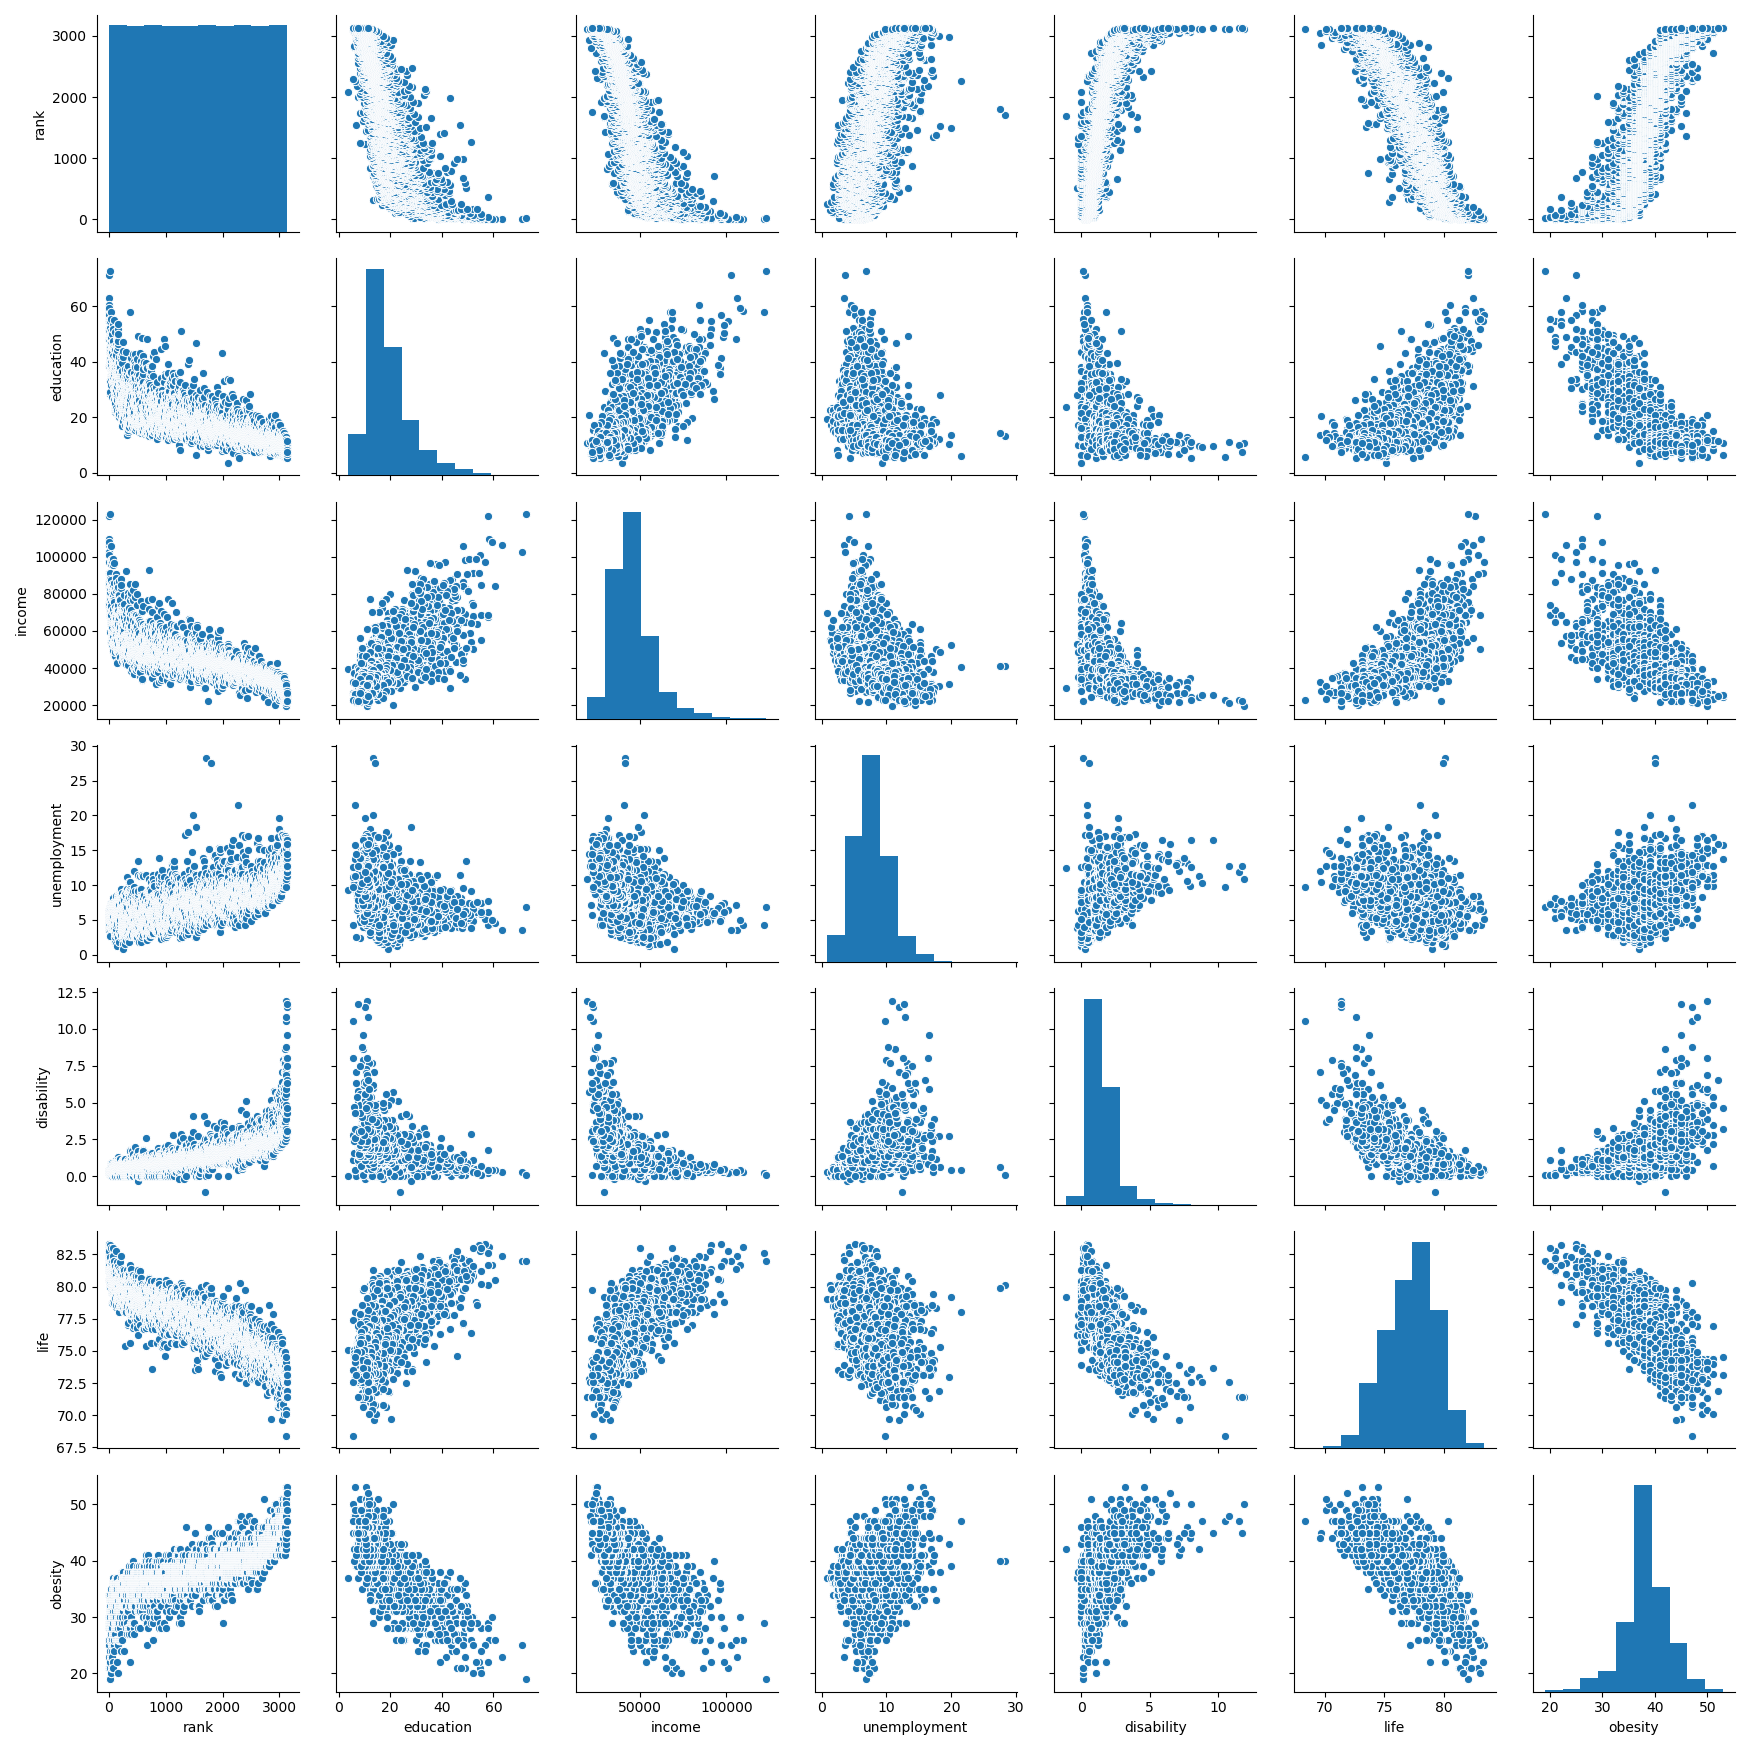
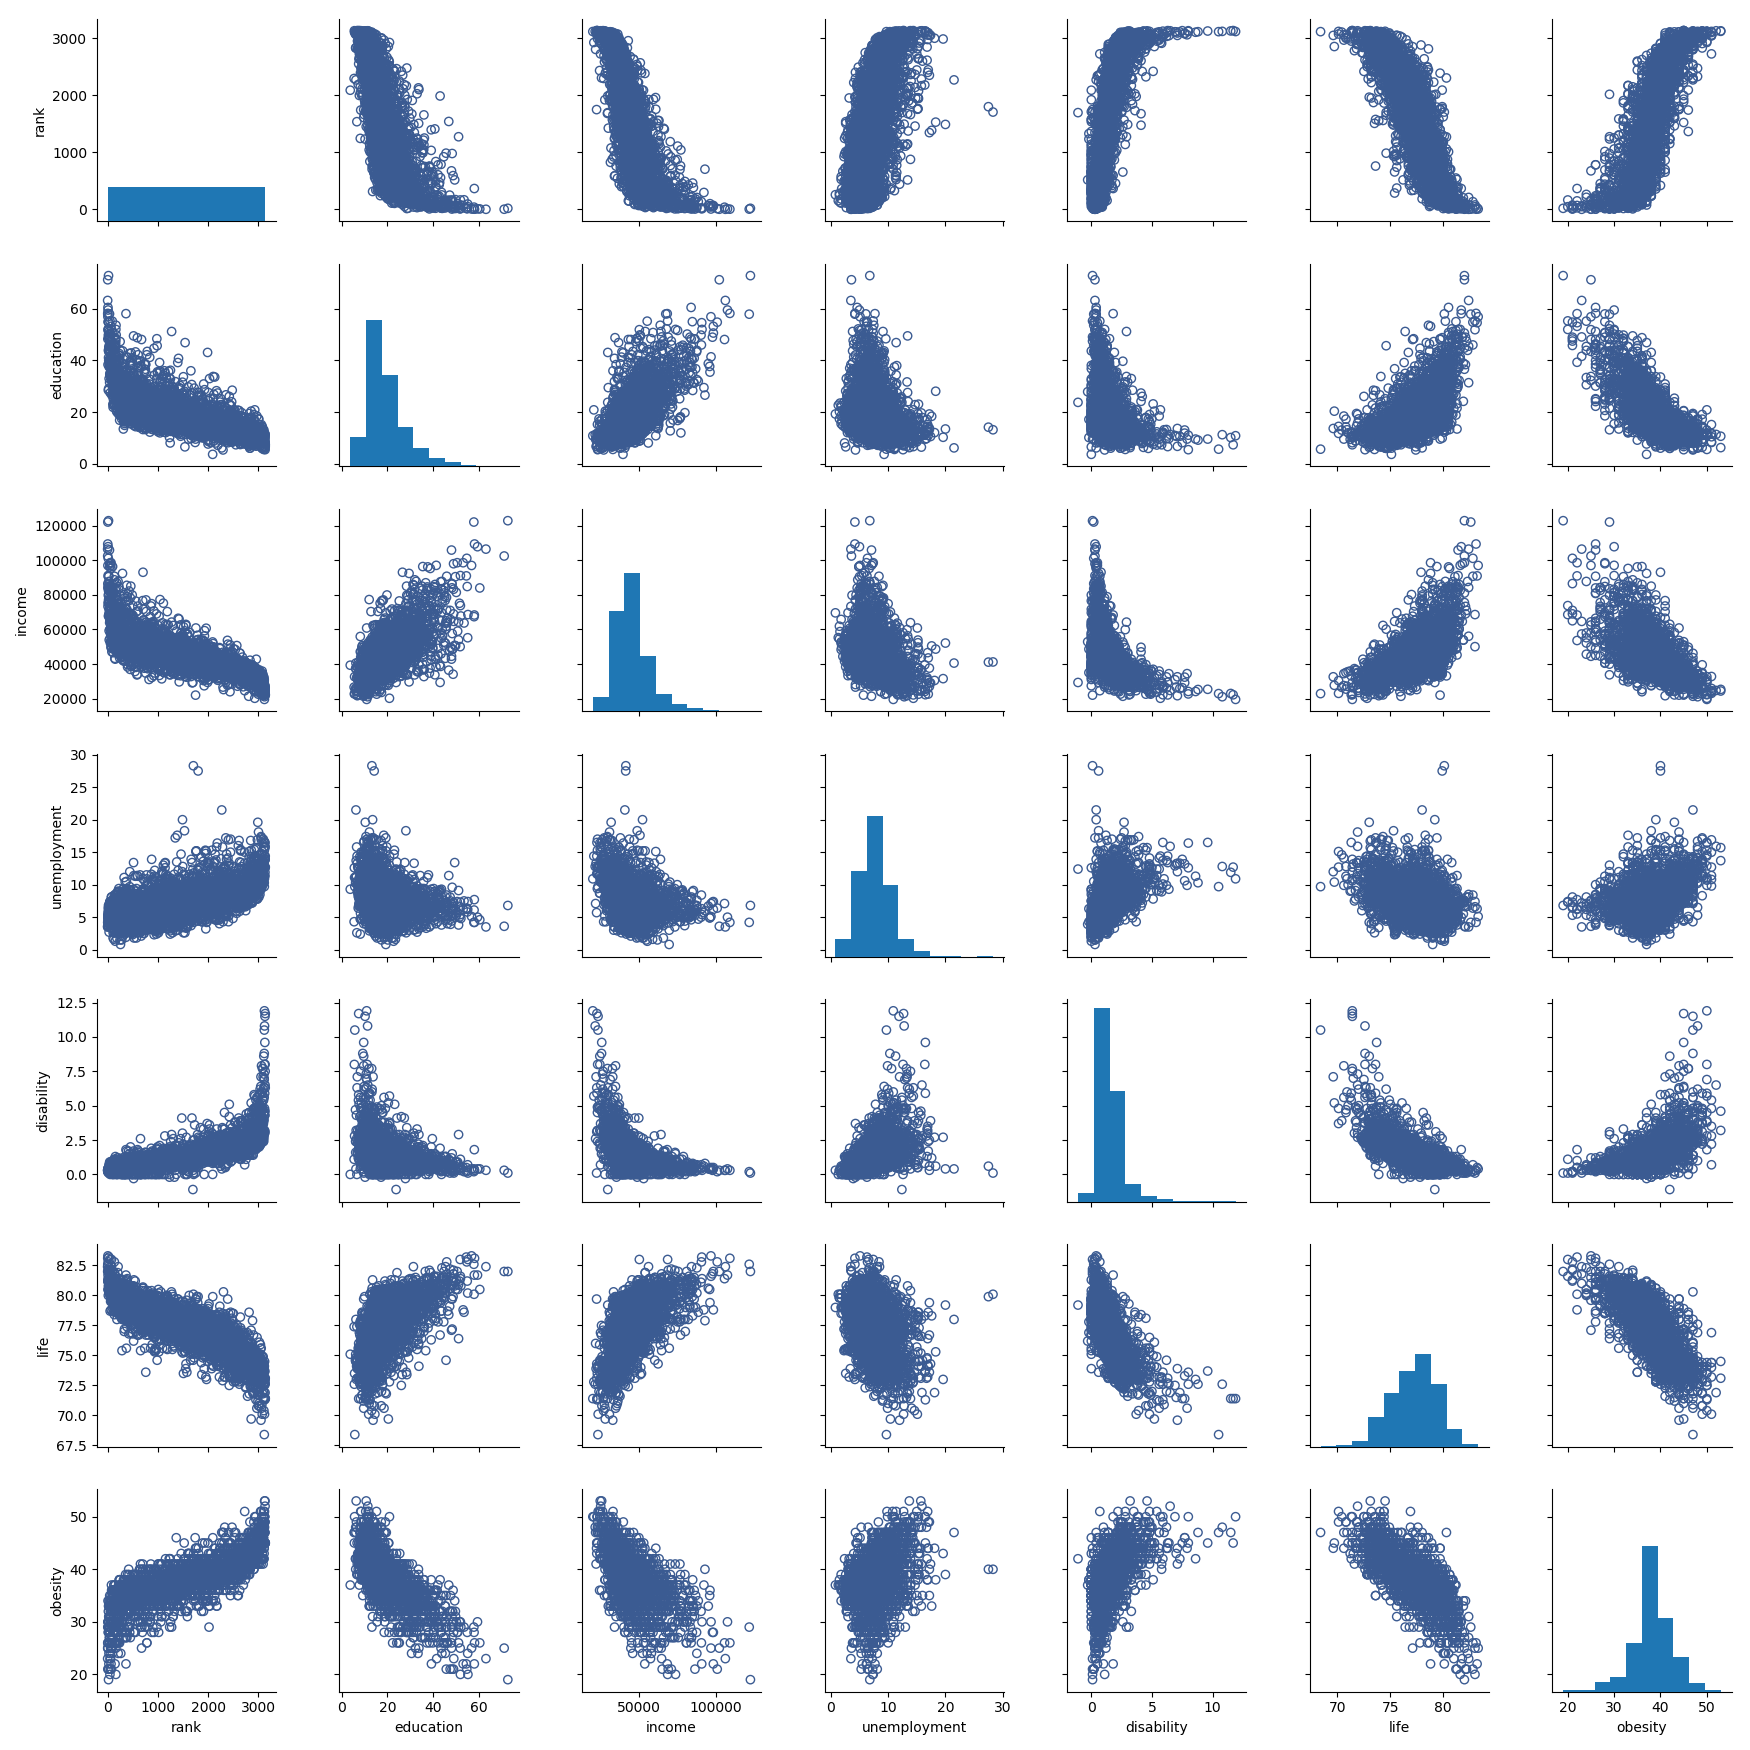
Updated the Upshot figure and created our own flavor. Updated the pair-plot to use hollow circle markers for improved readability. Need to fix some of the colors.

diff --git a/county_data_eda.py b/county_data_eda.py
@@ -18,12 +18,10 @@ def main():
     print(dfs.columns_types)
     print(dfs.columns_stats)
 
-    sns.pairplot(df.drop(['id', 'County'], axis=1))
-    plt.tight_layout()
-    plt.savefig('county_data_pair.png')
-    plt.close()
+    pair_plot(df)
 
     make_upshot_figure(df)
+    make_modified_upshot_figure(df)
 
 
 def load_and_process_data():
@@ -37,6 +35,13 @@ def load_and_process_data():
     df.sort_values('rank', inplace=True)
     df['id'] = df['id'].str.zfill(5)
     return df
+
+
+def pair_plot(df):
+    sns.pairplot(df.drop(['id', 'County'], axis=1), plot_kws={'facecolor': 'None', 'edgecolor': sns.xkcd_rgb["denim blue"]})
+    plt.tight_layout()
+    plt.savefig('county_data_pair.png')
+    plt.close()
 
 
 def make_upshot_figure(df):
@@ -65,7 +70,6 @@ def make_upshot_figure(df):
             '5': "#F5A361",
             '6': "#F28124"
         },
-        center={"lat": 37.0902, "lon": -95.7129},
         labels={
             'rank': 'Overall Rank',
             'income': 'Median Income',
@@ -79,6 +83,49 @@ def make_upshot_figure(df):
     fig.update_geos(
         visible=False,
         scope='usa',
+    )
+    fig.update_traces(
+        marker_line_color="white"
+    )
+    fig.update_layout(
+        margin={"r": 0, "t": 30, "l": 0, "b": 0}
+    )
+    fig.show()
+
+
+def make_modified_upshot_figure(df):
+    """
+    Replicates the figure from:
+        https://www.nytimes.com/2014/06/26/upshot/where-are-the-hardest-places-to-live-in-the-us.html
+    """
+    with urlopen('https://raw.githubusercontent.com/plotly/datasets/master/geojson-counties-fips.json') as response:
+        counties = json.load(response)
+
+    fig = px.choropleth(
+        df,
+        geojson=counties,
+        locations='id',
+        color='rank',
+        hover_name='County',
+        hover_data=['rank', 'income', 'education', 'unemployment', 'disability', 'life', 'obesity'],
+        color_continuous_scale='Greens',
+        range_color=[-500, df['rank'].max()],
+        labels={
+            'rank': 'Quality of Living Rank',
+            'income': 'Median Income',
+            'education': 'College Education',
+            'unemployment': 'Unemployment',
+            'disability': 'Disability',
+            'life': 'Life Expectancy',
+            'obesity': 'Obesity',
+        }
+    )
+    fig.update_geos(
+        visible=False,
+        scope='usa',
+    )
+    fig.update_traces(
+        marker_line_color="white"
     )
     fig.update_layout(
         margin={"r": 0, "t": 30, "l": 0, "b": 0}
